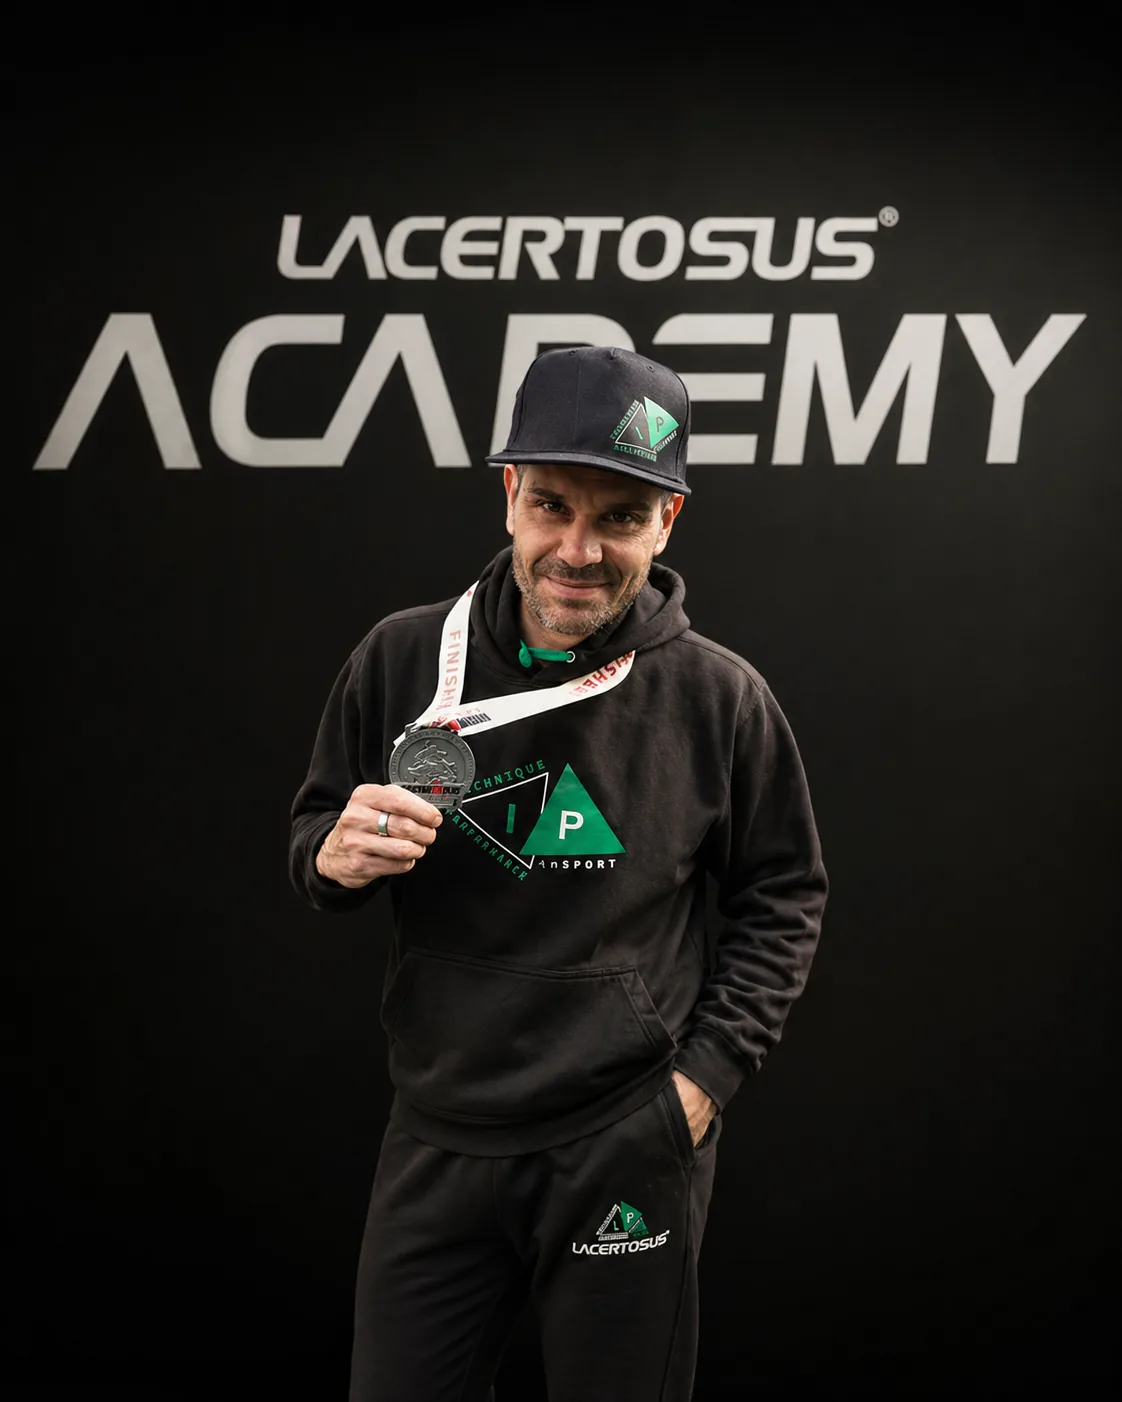
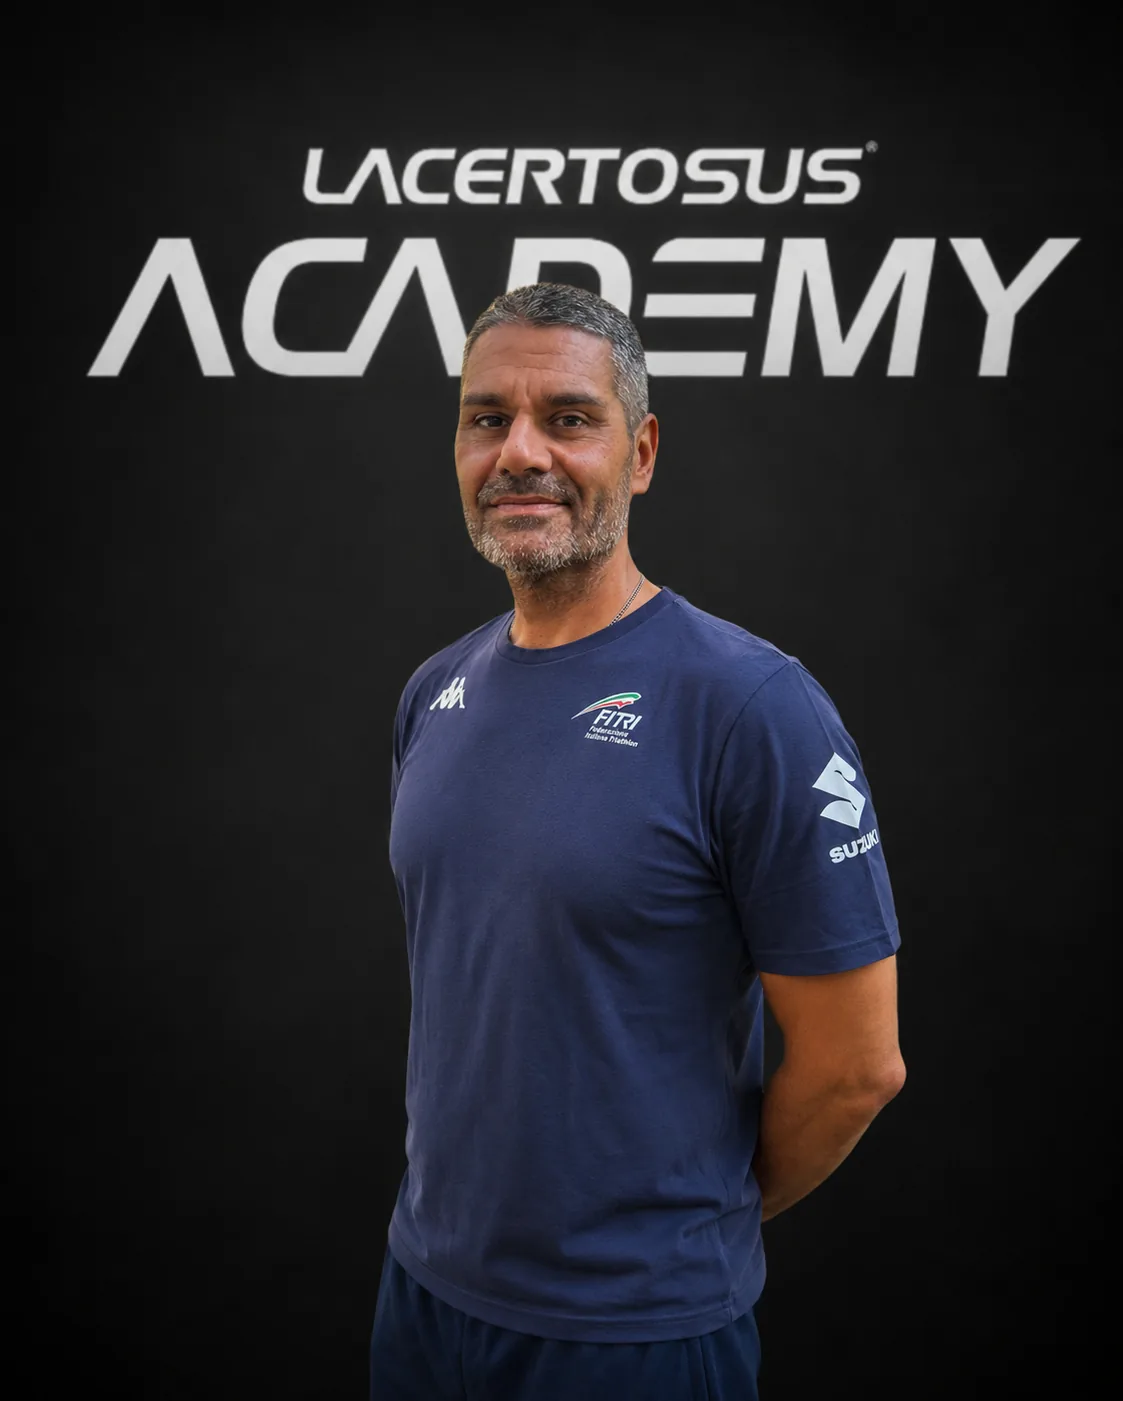
feat(masterclass): rebrand Running as Triathlon Swim Bike Run
Keep the master-running slug across workshops, packs, access rules and
Stripe prices so existing tickets, orders and QR codes stay valid.

- new title, subtitle and focus (endurance / long distance)
- teacher renamed to Ivan Pelizzari with the full FITRI, IRONMAN and CONI
  qualifications; new profile picture
- detail page rebuilt around the three confirmed topics: physiology of
  swim/bike/run, strength for endurance, bike fitting
- migration 033 updates the product_access_rules label

The Stripe Product still needs a manual rename in the Dashboard before
setup-stripe-masterclasses.mjs is run again.

diff --git a/src/components/workshops/workshop-detail.tsx b/src/components/workshops/workshop-detail.tsx
@@ -427,83 +427,76 @@ const CONTENT: Record<string, MasterclassContent> = {
       "Una o due giornate dentro un centro che ha formato tennisti d'élite internazionali: un livello di metodo difficile da trovare altrove.",
   },
   "master-running": {
-    domain: "Running Performance",
-    hook: "Correre è l'80% testa, 20% gambe. Programmare bene il 20% libera tutto il resto.",
-    trainerHeadline: "Ivan Pellizzari",
+    domain: "Triathlon & Endurance",
+    hook: "Tre discipline, un solo atleta. Nella lunga distanza vince chi sa allenarle come un sistema unico.",
+    trainerHeadline: "Ivan Pelizzari",
     trainerPitch:
       "Istruttore Triathlon FITRI, Allenatore Triathlon FITRI, Allenatore Specialista lunghe distanze Triathlon FITRI, Tecnico Nazionale Triathlon FITRI (Commissione Nazionale AGE GROUP), Allenatore IRONMAN COACH, Preparatore atletico primo e secondo liv. CONI",
     whatYouLearn:
-      "Una giornata dedicata alla programmazione del runner: dalle zone fisiologiche alla periodizzazione, dalla forza per il corridore al tapering pre-gara.",
+      "Swim, bike & run nel triathlon di lunga distanza: la fisiologia delle tre discipline, il ruolo della forza nell'endurance e il bike fitting come leva di performance.",
     modules: [
       {
         num: "01",
-        title: "Fisiologia della corsa",
-        body: "Zone di intensità, soglie e bioenergetica: cosa misurare e cosa significa davvero.",
+        title:
+          "La fisiologia del nuoto, bike e corsa nel triathlon di lunga distanza",
+        body: "Come rispondono i tre gesti sul piano metabolico e neuromuscolare: soglie, zone, costo energetico e gestione dell'intensità sulle lunghe distanze.",
       },
       {
         num: "02",
-        title: "Periodizzazione del runner",
-        body: "Come strutturare un blocco di preparazione dal 5K alla maratona. Fasi, microcicli, settimane chiave.",
+        title:
+          "L'importanza della forza nell'endurance e nel triathlon di lunga distanza",
+        body: "Perché la forza non toglie tempo all'endurance ma lo protegge: quando inserirla, con quali carichi e come integrarla nel volume delle tre discipline.",
       },
       {
         num: "03",
-        title: "Forza per il corridore",
-        body: "Come e quanto inserire la forza in un programma di corsa senza compromettere la performance.",
-      },
-      {
-        num: "04",
-        title: "Tapering e gara",
-        body: "Le ultime 3 settimane prima della gara: come affilarsi senza perdere fitness. Race day execution.",
-      },
-      {
-        num: "05",
-        title: "Recupero e cross-training",
-        body: "Recupero attivo, prevenzione infortuni e cross-training intelligente per il runner di volume.",
+        title:
+          "Il bike fitting e l'importanza di una corretta posizione in sella",
+        body: "Posizione in sella, aerodinamica e comfort sulle lunghe distanze: come una regolazione corretta cambia potenza espressa, economia e capacità di correre dopo la bici.",
       },
     ],
     outcomes: [
-      "Costruire un programma di corsa per ogni distanza (5K → maratona)",
-      "Inserire la forza nel piano del runner senza interferenze",
-      "Pianificare un tapering efficace pre-gara",
-      "Identificare e prevenire gli infortuni più frequenti",
-      "Coachare un atleta nella gestione mentale del passo",
+      "Leggere la fisiologia di nuoto, bici e corsa come un unico sistema",
+      "Dosare intensità e volume nel triathlon di lunga distanza",
+      "Inserire la forza nel piano dell'endurance senza interferenze",
+      "Riconoscere gli errori di posizione in sella che costano performance",
+      "Impostare il lavoro di un atleta verso una gara long distance",
     ],
     forWho: [
-      "Coach di atletica e running",
-      "PT che lavorano con runner amatori e agonisti",
-      "Runner avanzati che vogliono autoallenarsi seriamente",
+      "Coach e preparatori di triatleti e atleti di endurance",
+      "PT che seguono atleti su lunghe distanze",
+      "Triatleti e atleti endurance avanzati che vogliono capire il metodo",
     ],
     notFor: [
-      "Chi cerca workout HIIT generici",
-      "Chi corre solo per dimagrimento occasionale",
+      "Chi cerca workout generici di condizionamento",
+      "Chi non lavora con sport di endurance",
     ],
     included: [
-      "1 giornata con Ivan Pellizzari",
-      "Template di programmazione per 5K/10K/mezza/maratona",
-      "Schede di tapering e race week",
+      "1 giornata con Ivan Pelizzari",
+      "Riferimenti pratici per la programmazione swim/bike/run",
+      "Criteri operativi di bike fitting e posizione in sella",
       "Slide e materiali operativi",
       "Attestato di partecipazione",
     ],
     faq: [
       {
-        q: "Bisogna essere runner per partecipare?",
-        a: "Aiuta, ma non è obbligatorio. Il master è pensato anche per coach che lavorano con runner senza correre loro stessi.",
+        q: "Bisogna essere triatleti per partecipare?",
+        a: "No. Il master è pensato anche per coach e preparatori che seguono atleti di endurance senza gareggiare loro stessi.",
       },
       {
-        q: "Si parla anche di trail running?",
-        a: "I principi base sono gli stessi. Le specificità del trail vengono toccate dove rilevante.",
+        q: "Vale anche per chi lavora solo con la corsa o solo con il nuoto?",
+        a: "Sì. La fisiologia e il lavoro di forza vengono trattati disciplina per disciplina, poi integrati nel modello del triathlon.",
       },
       {
-        q: "I template sono adattabili?",
-        a: "Sì, sono progettati per essere personalizzati su livello, distanza obiettivo e disponibilità di tempo.",
+        q: "Il bike fitting è teorico o pratico?",
+        a: "Si parte dai criteri di valutazione della posizione in sella per arrivare alle correzioni applicabili sull'atleta.",
       },
       {
-        q: "Va bene anche per chi prepara una prima maratona?",
-        a: "Assolutamente sì. C'è una sezione dedicata alla prima maratona da affrontare con criterio.",
+        q: "Si parla anche di distanze olimpiche e sprint?",
+        a: "Il focus è la lunga distanza, ma i principi fisiologici e di forza sono trasferibili alle distanze più brevi.",
       },
     ],
     finalHook:
-      "Una giornata con un Tecnico Allenatore F.I.T.R.I. vale anni di tentativi ed errori sul tuo programma.",
+      "Una giornata con un Tecnico Nazionale Triathlon F.I.T.R.I. e IRONMAN Coach: il metodo con cui si preparano davvero le lunghe distanze.",
   },
   "master-rugby": {
     domain: "S&C Rugby",

diff --git a/src/components/workshops/workshop-grid.tsx b/src/components/workshops/workshop-grid.tsx
@@ -106,15 +106,15 @@ const CREDENTIALS: Record<string, Credential> = {
       "Faculty in finalizzazione: stiamo selezionando preparatori atletici di livello internazionale nel tennis.",
   },
   "master-running": {
-    domain: "Running Performance",
-    headline: "Ivan Pellizzari",
+    domain: "Triathlon & Endurance",
+    headline: "Ivan Pelizzari",
     pitch:
-      "Tecnico Allenatore della Federazione Italiana Triathlon (F.I.T.R.I.), specialista in running performance.",
+      "Tecnico Nazionale Triathlon F.I.T.R.I. e IRONMAN Coach, specialista delle lunghe distanze.",
     promise:
-      "Tecnica, performance e prevenzione infortuni nella corsa: zone, ritmi, periodizzazione e dosaggio della fatica.",
-    badge: "Federale",
+      "Swim, bike & run nella lunga distanza: fisiologia delle tre discipline, forza per l'endurance e bike fitting.",
+    badge: "IRONMAN Coach",
     badgeTooltip:
-      "Tecnico Allenatore F.I.T.R.I. — Federazione Italiana Triathlon: metodologia federale applicata al running.",
+      "Tecnico Nazionale Triathlon F.I.T.R.I. (Commissione Nazionale AGE GROUP) e Allenatore IRONMAN COACH.",
   },
   "master-nuoto": {
     domain: "S&C Nuoto",

diff --git a/src/components/home/faq-section.tsx b/src/components/home/faq-section.tsx
@@ -36,7 +36,7 @@ const FAQS = [
   },
   {
     q: "Posso acquistare un singolo blocco o una sola masterclass?",
-    a: "Sì. Ogni blocco (FUNCTION, STRENGTH, SCIENCE) è acquistabile separatamente, così come ciascuna delle 8 masterclass specialistiche (Functional & Bulgarian, Strength, Calcio, Pallavolo, Tennis, Rugby, Running, Nuoto). Le certificazioni complete (CSEN, NSCA, FIPE) sono però vincolate al percorso integrale: NSCA e Master Trainer richiedono i 3 blocchi, FIPE è inclusa nei bundle PRO ed ELITE.",
+    a: "Sì. Ogni blocco (FUNCTION, STRENGTH, SCIENCE) è acquistabile separatamente, così come ciascuna delle 8 masterclass specialistiche (Functional & Bulgarian, Strength, Calcio, Pallavolo, Tennis, Rugby, Triathlon, Nuoto). Le certificazioni complete (CSEN, NSCA, FIPE) sono però vincolate al percorso integrale: NSCA e Master Trainer richiedono i 3 blocchi, FIPE è inclusa nei bundle PRO ed ELITE.",
   },
   {
     q: "C'è un test d'ingresso per accedere all'Academy?",

diff --git a/src/lib/constants/teachers.ts b/src/lib/constants/teachers.ts
@@ -324,14 +324,13 @@ export const TEACHERS: Teacher[] = [
   },
   {
     slug: "ivan-pellizzari",
-    name: "Ivan Pellizzari",
-    role: "Tecnico Allenatore F.I.T.R.I.",
-    bio: "Tecnico Allenatore della Federazione Italiana Triathlon, specialista in running performance, tecnica e prevenzione infortuni.",
+    name: "Ivan Pelizzari",
+    role: "Tecnico Nazionale Triathlon F.I.T.R.I. | IRONMAN Coach",
+    bio: "Istruttore Triathlon FITRI, Allenatore Triathlon FITRI e Allenatore Specialista lunghe distanze Triathlon FITRI. Tecnico Nazionale Triathlon FITRI (Commissione Nazionale AGE GROUP), Allenatore IRONMAN COACH e Preparatore atletico di primo e secondo livello CONI.",
     courses: ["master-running"],
     image_url: "/docenti/ivan-pellizzari.webp",
     color: BRAND,
-    talkTitle:
-      "Running Science Master — Tecnica, Performance e Prevenzione Infortuni",
+    talkTitle: "Swim Bike & Run — Endurance e Long Distance",
   },
   {
     slug: "marco-magnani",

diff --git a/src/lib/constants/packs.ts b/src/lib/constants/packs.ts
@@ -347,9 +347,8 @@ export const PRODUCTS: AcademyProduct[] = [
   },
   {
     slug: "master-running",
-    name: "Masterclass Running",
-    subtitle:
-      "Running Science Master — Tecnica, Performance e Prevenzione Infortuni",
+    name: "Masterclass Triathlon",
+    subtitle: "Swim Bike & Run — Endurance e Long Distance",
     type: "workshop",
     priceCents: 49000,
     stripePriceId: {
@@ -360,7 +359,7 @@ export const PRODUCTS: AcademyProduct[] = [
     adminToggleable: true,
     includes: [
       "1-2 giornate in presenza",
-      "Ivan Pellizzari — Tecnico F.I.T.R.I.",
+      "Ivan Pelizzari — Tecnico Nazionale Triathlon F.I.T.R.I.",
       "Materiale didattico",
       "Attestato di partecipazione",
     ],

diff --git a/src/lib/constants/workshops.ts b/src/lib/constants/workshops.ts
@@ -107,14 +107,14 @@ export const WORKSHOPS: Workshop[] = [
   },
   {
     slug: "master-running",
-    title: "Running",
-    subtitle:
-      "Running Science Master — Tecnica, Performance e Prevenzione Infortuni",
-    focus: "Performance e metodologia di allenamento per la corsa",
+    title: "Triathlon Swim Bike Run",
+    subtitle: "Swim Bike & Run — Endurance e Long Distance",
+    focus:
+      "Fisiologia, forza e bike fitting nel triathlon di lunga distanza e nell'endurance",
     duration: "1-2 giornate",
     date: "Sabato 28 Novembre 2026",
     teacherSlugs: ["ivan-pellizzari"],
-    trainerLabel: "Ivan Pellizzari",
+    trainerLabel: "Ivan Pelizzari",
     sortOrder: 7,
     adminToggleable: true,
   },

diff --git a/src/components/home/calendar-section.tsx b/src/components/home/calendar-section.tsx
@@ -44,7 +44,7 @@ const EVENTS = [
   { label: "Master Volley", dates: "3 Ottobre", type: "workshop" },
   { label: "FUNCTION 2", dates: "9–10 Ottobre", type: "function" },
   { label: "FIPE I", dates: "13–14 Novembre", type: "fipe" },
-  { label: "Master Running", dates: "28 Novembre", type: "workshop" },
+  { label: "Master Triathlon", dates: "28 Novembre", type: "workshop" },
   { label: "STRENGTH 1", dates: "11–12 Dicembre", type: "strength" },
   { label: "STRENGTH 2", dates: "15–16 Gennaio", type: "strength" },
   { label: "Master Tennis", dates: "23 Gennaio", type: "workshop" },

diff --git a/src/app/masterclass/page.tsx b/src/app/masterclass/page.tsx
@@ -11,7 +11,7 @@ import {
 export const metadata: Metadata = {
   title: "Masterclass Specialistici",
   description:
-    "8 masterclass specialistici con professionisti del settore: Functional & Bulgarian, Strength, Calcio, Pallavolo, Tennis, Rugby, Running, Nuoto.",
+    "8 masterclass specialistici con professionisti del settore: Functional & Bulgarian, Strength, Calcio, Pallavolo, Tennis, Rugby, Triathlon, Nuoto.",
 };
 
 export default async function MasterclassIndexPage() {

diff --git a/src/components/packs/masterclass-selector.tsx b/src/components/packs/masterclass-selector.tsx
@@ -41,8 +41,8 @@ const CREDENTIALS: Record<string, Cred> = {
       "Faculty in definizione — preparatori atletici di livello internazionale.",
   },
   "master-running": {
-    domain: "Running Performance",
-    pitch: "Ivan Pellizzari — Tecnico Allenatore F.I.T.R.I.",
+    domain: "Triathlon & Endurance",
+    pitch: "Ivan Pelizzari — Tecnico Nazionale Triathlon F.I.T.R.I.",
   },
   "master-nuoto": {
     domain: "S&C Nuoto",

diff --git a/modifiche-fsalafia.md b/modifiche-fsalafia.md
@@ -401,3 +401,72 @@ git push origin main
 
 - _hash_
 ```
+
+---
+
+## Batch 004 — Masterclass Running → Triathlon Swim Bike Run (Ivan Pelizzari)
+
+**Data**: 2026-08-07
+**Stato**: 🟡 in sviluppo
+**Obiettivo**: Riposizionare la Masterclass Running come **Triathlon Swim Bike Run** (endurance e lunga distanza), con nuova immagine docente e programma allineato ai 3 argomenti forniti da Cristiano Cappi.
+
+### Decisioni prese
+
+- **Slug `master-running` invariato** in tutto lo stack (workshop, pack, `workshopSlug`, `product_access_rules`, price Stripe): chi ha già acquistato mantiene ticket, QR e ordine, e vede automaticamente il nuovo titolo
+- Docente: slug `ivan-pellizzari` e `image_url` invariati — sostituito solo il binario `.webp`
+- Nome docente corretto in **"Ivan Pelizzari"** (una L, confermato dall'utente). Slug `ivan-pellizzari`,
+  `image_url` e nome del file immagine **restano con la doppia L**: sono identificatori interni, non
+  compaiono in URL pubblici (non esiste una route `/docenti/[slug]`)
+- 3 moduli (non 5) — solo gli argomenti effettivamente confermati dal docente
+- Rimossa tutta la copy running-only ormai fuori tema (5K/maratona, tapering, trail running)
+
+### File modificati
+
+| File                                            | Modifica                                                                    |
+| ----------------------------------------------- | --------------------------------------------------------------------------- |
+| `src/lib/constants/workshops.ts`                | `title`/`subtitle`/`focus` di `master-running`                              |
+| `src/lib/constants/teachers.ts`                 | `role`, `bio` (qualifiche complete FITRI/IRONMAN/CONI), `talkTitle`         |
+| `src/lib/constants/packs.ts`                    | `name` → "Masterclass Triathlon", `subtitle`, `includes`                    |
+| `src/components/workshops/workshop-detail.tsx`  | `master-running`: domain, hook, whatYouLearn, 3 moduli, outcomes, FAQ, hook |
+| `src/components/workshops/workshop-grid.tsx`    | domain, pitch, promise, badge "IRONMAN Coach"                               |
+| `src/components/packs/masterclass-selector.tsx` | domain e pitch                                                              |
+| `src/components/home/calendar-section.tsx`      | label "Master Running" → "Master Triathlon"                                 |
+| `src/components/home/faq-section.tsx`           | elenco masterclass                                                          |
+| `src/app/masterclass/page.tsx`                  | meta description                                                            |
+| `scripts/setup-stripe-masterclasses.mjs`        | `productName` + nota anti-duplicato su `findProductByName`                  |
+| `scripts/convert-docenti-images.mjs`            | mapping `ivanpellizzari-edit2.png` (il vecchio 31-04 è superseded)          |
+| `public/docenti/ivan-pellizzari.webp`           | nuova foto (da `ACADEMY-FILES/docenti-edit/03-07/IvanPellizzari-edit2.png`) |
+
+### File creati
+
+| File                                                          | Scopo                                            |
+| ------------------------------------------------------------- | ------------------------------------------------ |
+| `supabase/migrations/033_rename_master_running_triathlon.sql` | label `product_access_rules` (scanner QR, admin) |
+
+### Modifiche esterne necessarie (manuali, fuori repo)
+
+1. **Stripe** — rinominare il Product esistente (test + live, dietro `price_1TUNq5CE95vjZKhkVOefqx7O`) in
+   "Masterclass Triathlon — Lacertosus Academy". Finché non lo si fa, il Checkout mostra ancora
+   "Masterclass Running". **Non rieseguire `setup-stripe-masterclasses.mjs` prima del rename**:
+   `findProductByName` non troverebbe il prodotto e creerebbe un duplicato con nuovi price ID.
+2. **Supabase** — eseguire la migration 033 (DB condiviso staging/prod: la label cambia subito anche in produzione).
+
+### Procedura di test
+
+1. `/masterclass` → card "Triathlon Swim Bike Run", badge IRONMAN Coach, foto nuova
+2. `/masterclass/master-running` → 3 moduli, qualifiche docente, foto nuova
+3. `/pack` → selettore masterclass: voce "Triathlon & Endurance"
+4. Account di un acquirente esistente → `/account/tickets` mostra il nuovo titolo, QR invariato
+5. `/admin/scanner` → validazione QR di un ticket `master-running` esistente
+
+### Rollback
+
+```bash
+git revert <COMMIT_HASH_BATCH_004>
+```
+
+```sql
+UPDATE public.product_access_rules
+SET label = 'Masterclass Running — Running Science Master'
+WHERE product_slug = 'master-running';
+```
